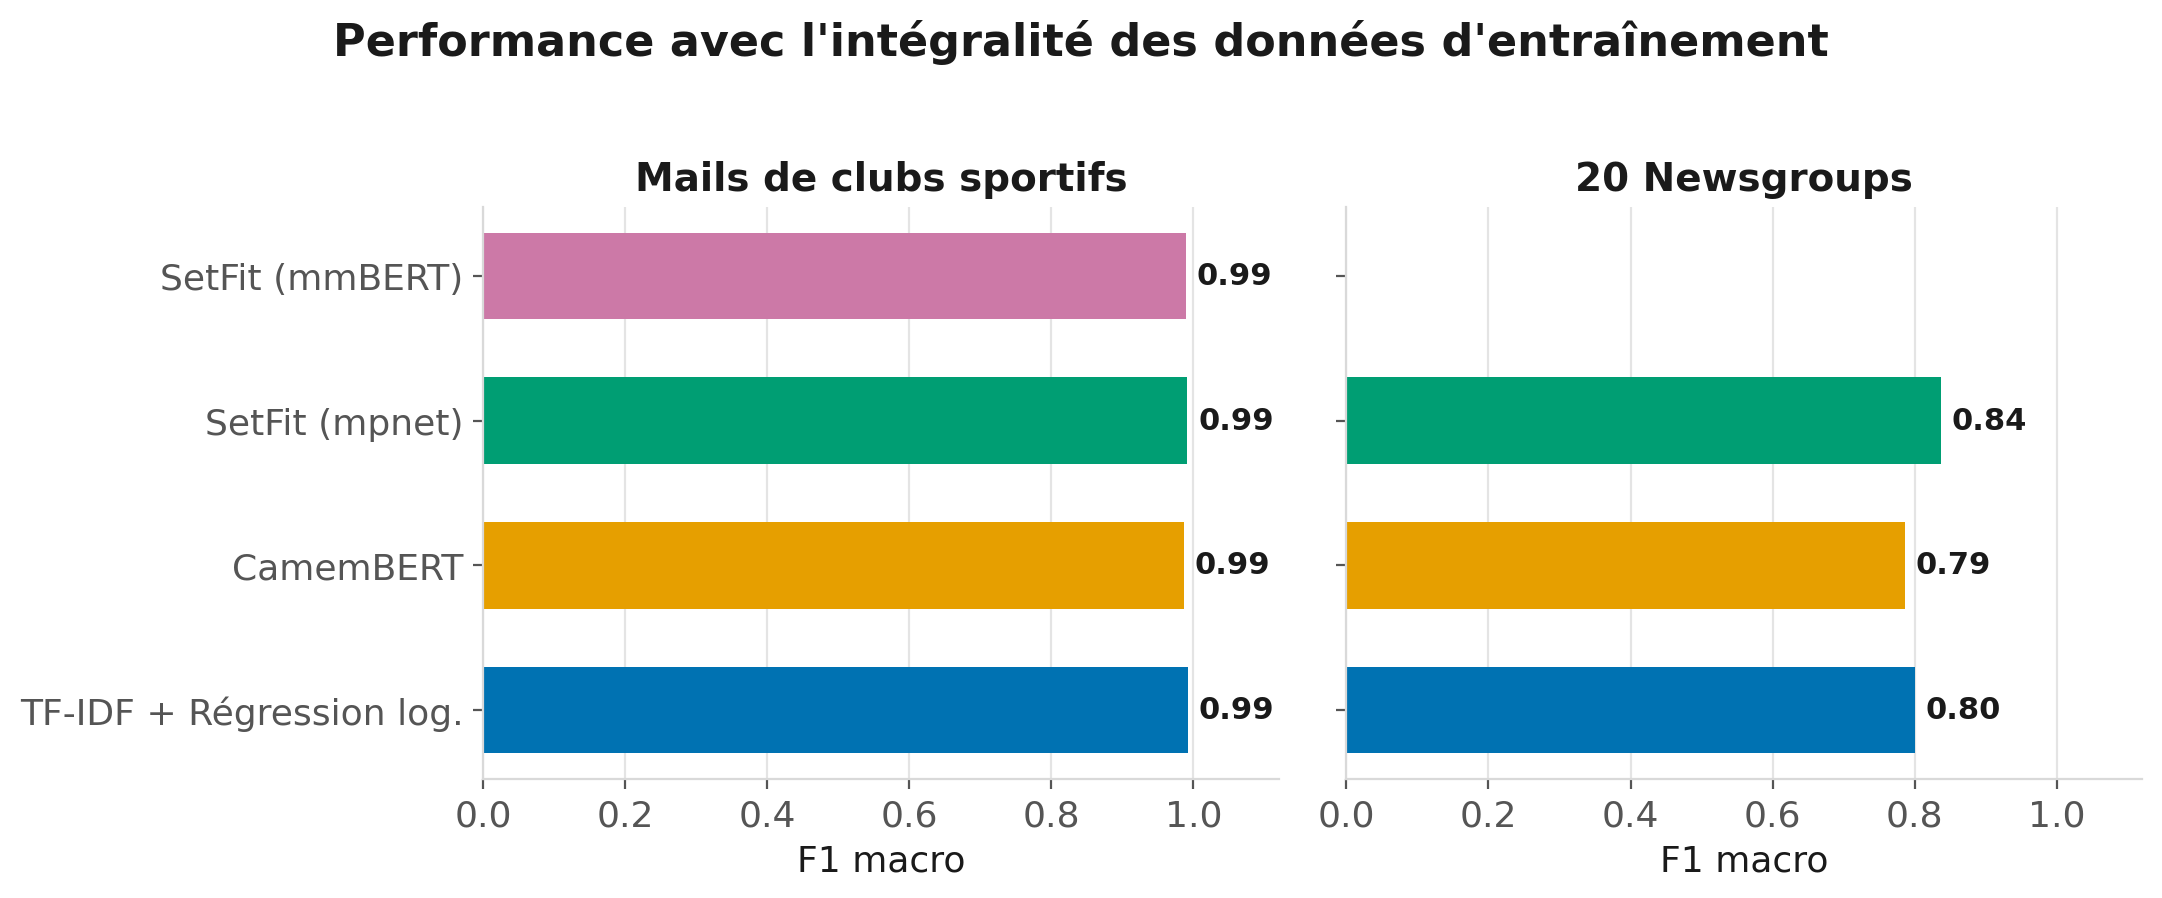
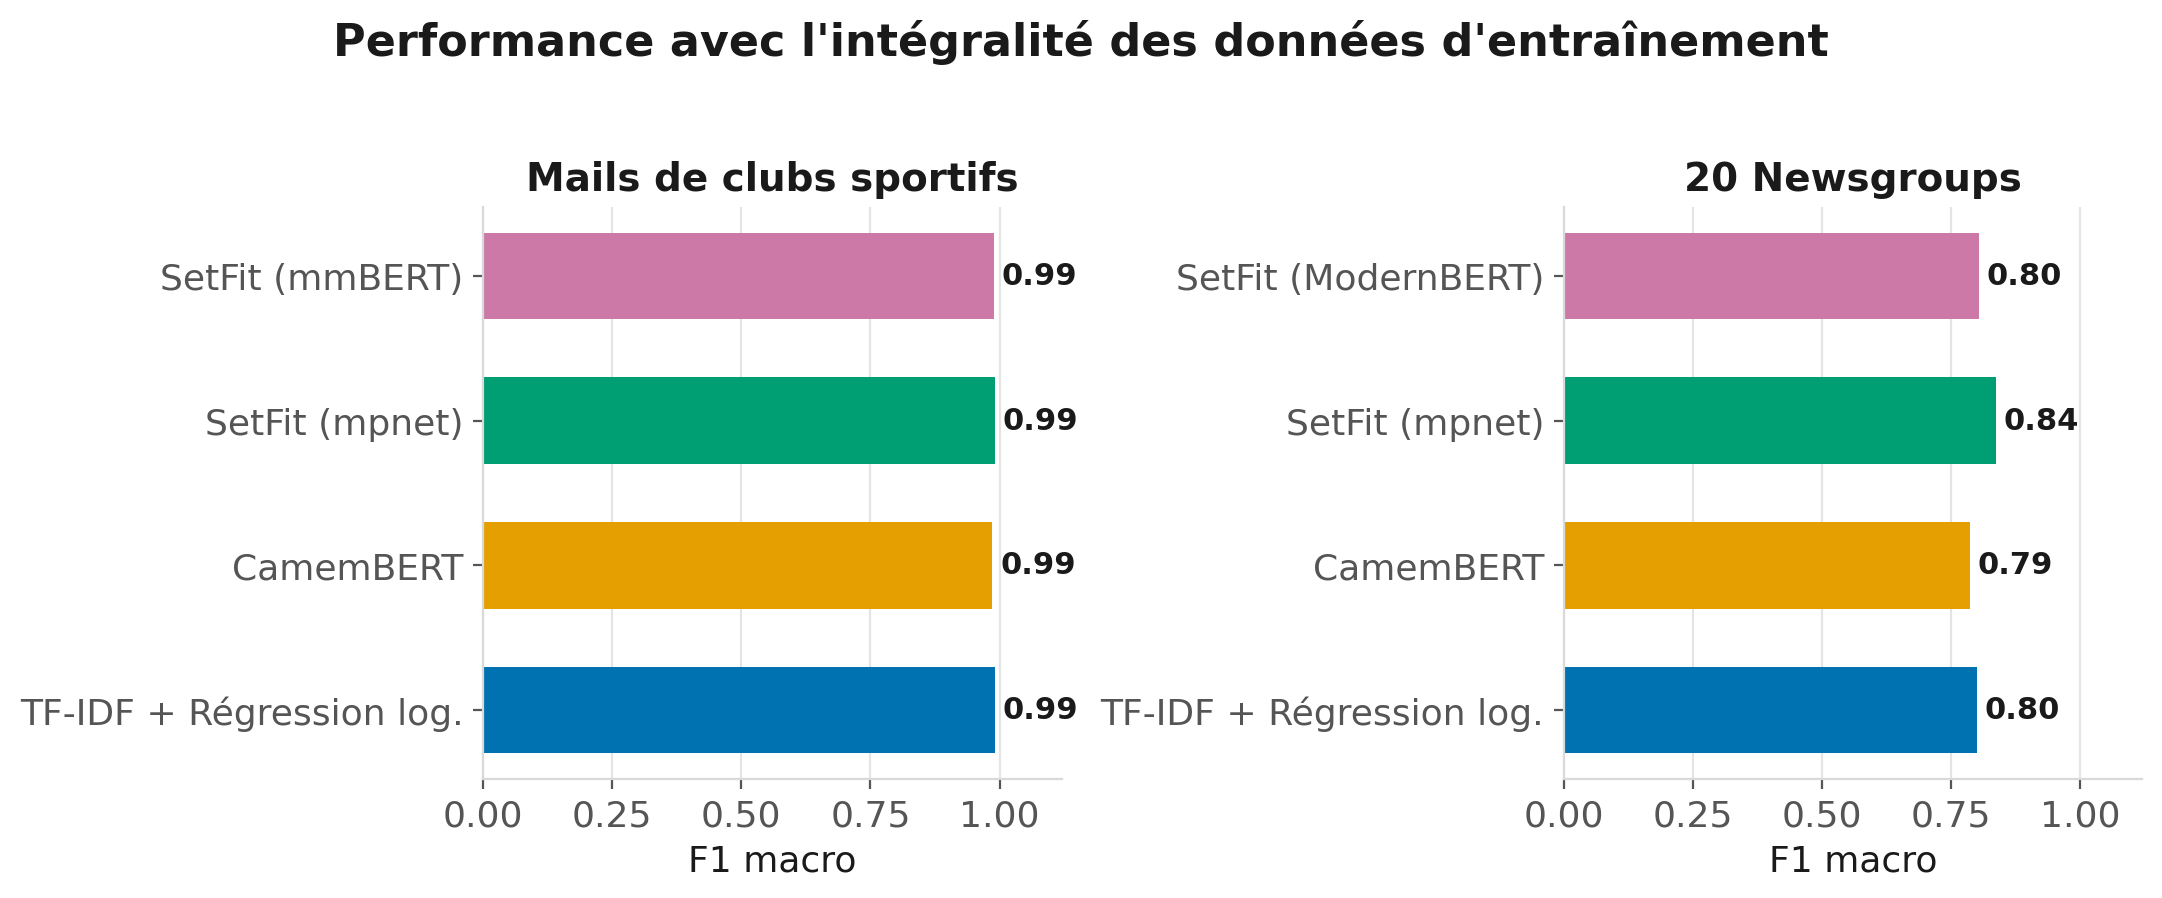
Graphique full data : afficher par corpus les variantes réellement évaluées
ModernBERT (anglophone) est évalué sur 20 Newsgroups et mmBERT sur les mails
français : le graphique affichait mmBERT dans les deux panneaux, laissant une
case vide sur Newsgroups alors que les résultats de ModernBERT existaient.

diff --git a/scripts/make_slide_figures.py b/scripts/make_slide_figures.py
@@ -135,11 +135,20 @@ def learning_curves(df: pd.DataFrame, dataset: str, models: list, fname: str, ti
 # ── 3. Comparaison en full data ───────────────────────────────────────────────
 def fulldata_bars(df: pd.DataFrame, fname: str):
     sub = df[df["regime"] == "full"].copy()
-    order = ["tfidf_lr", "camembert", "setfit_camembert", "setfit_mmbert"]
 
-    fig, axes = plt.subplots(1, 2, figsize=(11, 4.4), dpi=200, sharey=True)
+    # Les variantes de socle SetFit diffèrent selon le corpus : ModernBERT est
+    # anglophone (donc évalué sur Newsgroups), mmBERT est multilingue et a été
+    # réservé au cas d'usage métier. On affiche dans chaque panneau les modèles
+    # réellement évalués sur ce corpus, plutôt qu'une case vide trompeuse.
+    ORDRE = {
+        "emails": ["tfidf_lr", "camembert", "setfit_camembert", "setfit_mmbert"],
+        "newsgroups": ["tfidf_lr", "camembert", "setfit_camembert", "setfit_modernbert_en"],
+    }
+
+    fig, axes = plt.subplots(1, 2, figsize=(11, 4.4), dpi=200)
     for ax, ds, titre in zip(axes, ["emails", "newsgroups"],
                              ["Mails de clubs sportifs", "20 Newsgroups"]):
+        order = ORDRE[ds]
         d = sub[sub["dataset"] == ds]
         d = d[d["model"].isin(order)].copy()
         d["ord"] = d["model"].map({m: i for i, m in enumerate(order)})
